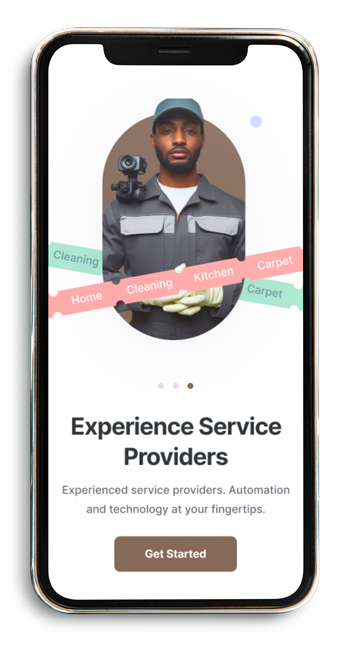
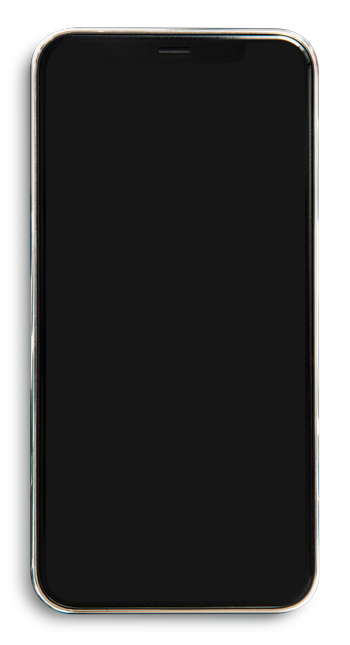
add slider on mobile

diff --git a/index.html b/index.html
@@ -164,6 +164,20 @@
                         </div>
                         <div class='position-relative position-md-absolute'>
                             <img src="assets/images/app-mob-01.png" alt="clean-img" width="auto" height=700 />
+                            <div class="mobile-screen owl-carousel owl-theme">
+                                <figure class="item">
+                                    <img src="./assets/images/provider_screens/00.png" alt="" width="auto" height=700>
+                                </figure>
+                                <figure class="item">
+                                    <img src="./assets/images/provider_screens/01.png" alt="" width="auto" height=700>
+                                </figure>
+                                <figure class="item">
+                                    <img src="./assets/images/provider_screens/02.png" alt="" width="auto" height=700>
+                                </figure>
+                                <figure class="item">
+                                    <img src="./assets/images/provider_screens/03.png" alt="" width="auto" height=700>
+                                </figure>
+                            </div>
                         </div>
                         <div class='d-none d-md-flex'>
                             <img src="assets/images/app-mob-03.png" alt="clean-img" width="auto" height=600 />
@@ -352,6 +366,21 @@
                         </div>
                         <div class='position-relative position-md-absolute'>
                             <img src="assets/images/app-mob-04.png" alt="clean-img" width="auto" height=700 />
+
+                            <div class="mobile-screen owl-carousel owl-theme">
+                                <figure class="item">
+                                    <img src="./assets/images/seeker_screens/00.png" alt="" width="auto" height=700>
+                                </figure>
+                                <figure class="item">
+                                    <img src="./assets/images/seeker_screens/01.png" alt="" width="auto" height=700>
+                                </figure>
+                                <figure class="item">
+                                    <img src="./assets/images/seeker_screens/02.png" alt="" width="auto" height=700>
+                                </figure>
+                                <figure class="item">
+                                    <img src="./assets/images/seeker_screens/03.png" alt="" width="auto" height=700>
+                                </figure>
+                            </div>
                         </div>
                         <div class='d-none d-md-flex'>
                             <img src="assets/images/app-mob-06.png" alt="clean-img" width="auto" height=600 />
@@ -805,7 +834,8 @@
                         <div class="item">
                             <div class="client-review-box">
                                 <div class="client-review-content position-relative">
-                                    <p>Carpet Cleaning: Revived my carpets with ease. Quick service, outstanding stain removal.</p>
+                                    <p>Carpet Cleaning: Revived my carpets with ease. Quick service, outstanding stain
+                                        removal.</p>
                                     <figure class="mb-0">
                                         <img src="assets/images/star-img.png" alt="star-img">
                                     </figure>
@@ -824,7 +854,8 @@
                         <div class="item">
                             <div class="client-review-box">
                                 <div class="client-review-content position-relative">
-                                    <p>Office Cleaning: Streamlined scheduling, professional crew. Boosted workplace hygiene and productivity!</p>
+                                    <p>Office Cleaning: Streamlined scheduling, professional crew. Boosted workplace
+                                        hygiene and productivity!</p>
                                     <figure class="mb-0">
                                         <img src="assets/images/star-img.png" alt="star-img">
                                     </figure>
@@ -843,7 +874,8 @@
                         <div class="item">
                             <div class="client-review-box">
                                 <div class="client-review-content position-relative">
-                                    <p>Home Cleaning: Efficient app, seamless booking, and sparkling results! My home has never looked better</p>
+                                    <p>Home Cleaning: Efficient app, seamless booking, and sparkling results! My home
+                                        has never looked better</p>
                                     <figure class="mb-0">
                                         <img src="assets/images/star-img.png" alt="star-img">
                                     </figure>
@@ -1004,6 +1036,15 @@
                     items: 4
                 }
             }
+        })
+
+        $('.mobile-screen').owlCarousel({
+            loop: true,
+            autoplay: true,
+            autoplayTimeout: 1000,
+            items: 1,
+
+
         })
     </script>
     <script>

diff --git a/assets/css/custom.css b/assets/css/custom.css
@@ -519,12 +519,16 @@ span.error {
 .app-section div:nth-child(2) {
     justify-content: center;
     z-index: 1;
-    animation: mover 1s infinite alternate;
+    /* animation: mover 1s infinite alternate; */
 }
 
 .app-section div:nth-child(3) {
     justify-content: flex-end;
 
+}
+
+.mobile-screen .owl-item.active {
+    justify-content: center !important;
 }
 
 /** MOBILE APP SECTION****/
